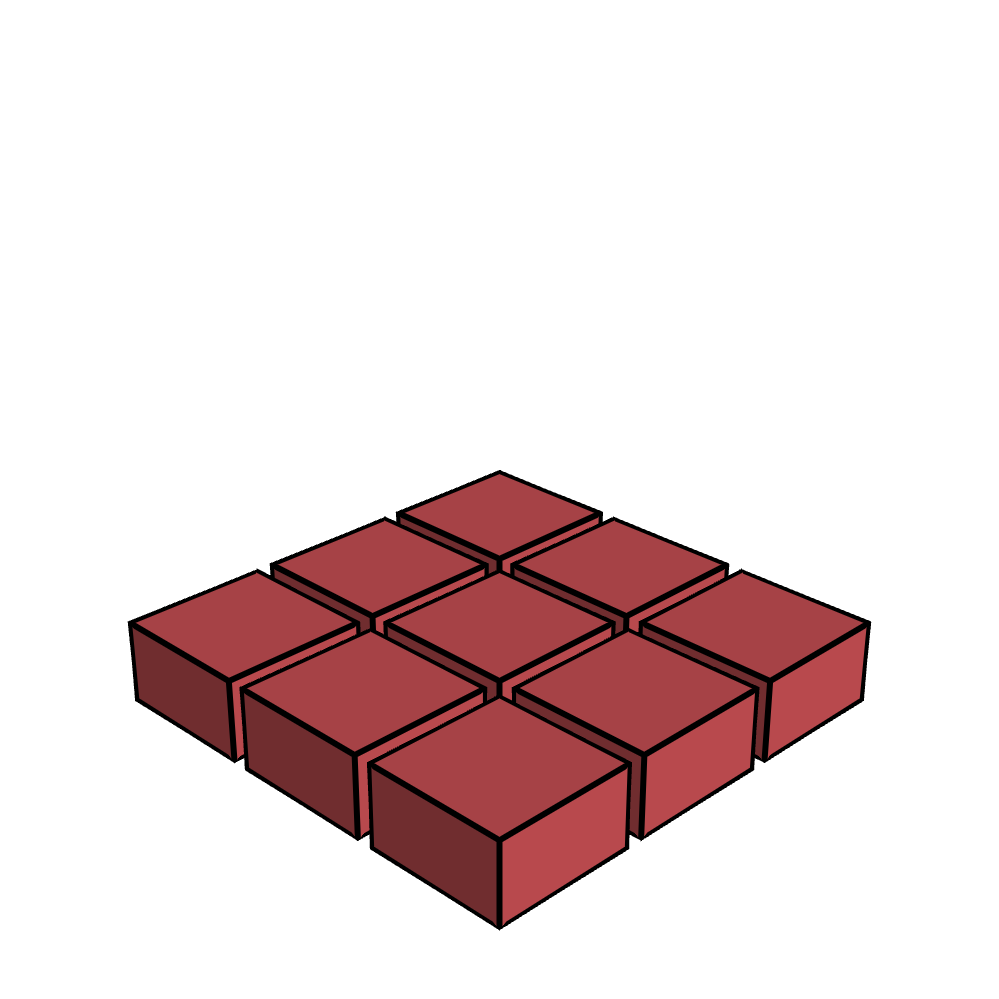
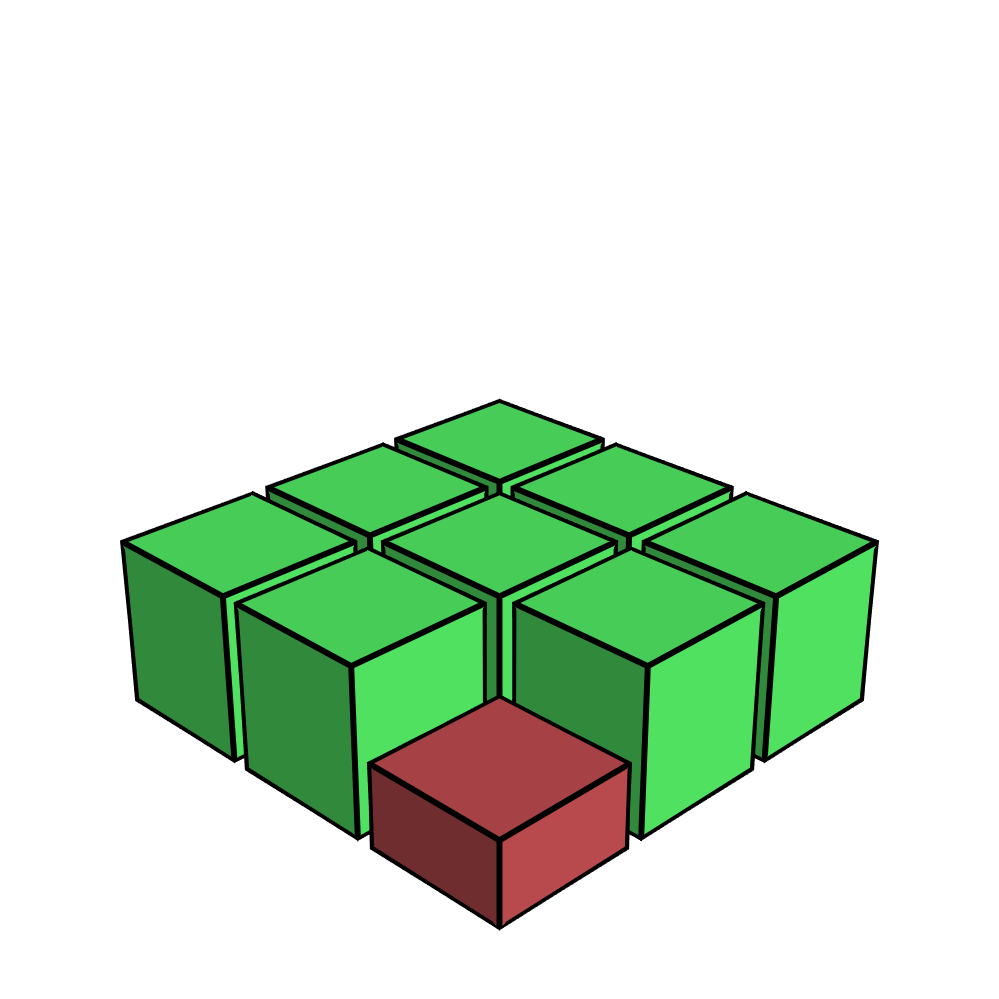
Add additional image to sync images

Changed region(s): [[0.1241, 0.4034, 0.8999, 0.8378]]

diff --git a/plotters/mayavi_off_screen.py b/plotters/mayavi_off_screen.py
@@ -111,14 +111,31 @@ def sync_async_frame_3(name: str):
     )
 
 
-def sync_frame_4():
-    plot_flat_top("sync", 4, 1, red)
-
-
-def async_frame_4():
+def sync_async_frame_4(name: str):
     sync_async_split_colors(
-        name="async", frame=4, distance=0, level=1, red_green_same_level=False
+        name=name, frame=4, distance=0, level=1, red_green_same_level=False
     )
+
+
+def plot_staggered(
+    name: str, frame: int, level: int, color: tuple, size: tuple = image_size
+):
+    fig, filename = start(name, frame)
+
+    x, y, z_bottom, z_top = staggered_height_from_bottom(
+        level=level, squash_factor=squash
+    )
+
+    bar = mlab.barchart(x, y, z_bottom, z_top, color=color, figure=fig)
+    set_line_width(bar)
+
+    set_scene()
+
+    save_clear(filename, size=size)
+
+
+def sync_frame_5():
+    plot_staggered(name="sync", frame=5, level=2, color=red)
 
 
 def async_frame_5():
@@ -155,23 +172,6 @@ def async_frame_10():
     sync_async_split_colors(
         name="async", frame=10, distance=3, level=4, red_green_same_level=False
     )
-
-
-def plot_staggered(
-    name: str, frame: int, level: int, color: tuple, size: tuple = image_size
-):
-    fig, filename = start(name, frame)
-
-    x, y, z_bottom, z_top = staggered_height_from_bottom(
-        level=level, squash_factor=squash
-    )
-
-    bar = mlab.barchart(x, y, z_bottom, z_top, color=color, figure=fig)
-    set_line_width(bar)
-
-    set_scene()
-
-    save_clear(filename, size=size)
 
 
 def async_frame_11():
@@ -332,6 +332,15 @@ def global_state_frame_9():
 # image here instead
 test_off_screen_render()
 
+# Sync
+sync_async_frame_1("sync")
+sync_async_frame_2("sync")
+sync_async_frame_3("sync")
+sync_async_frame_4("sync")
+sync_frame_5()
+
+exit()
+
 # Global state
 global_state_frame_1()
 global_state_frame_2()
@@ -343,13 +352,11 @@ global_state_frame_7()
 global_state_frame_8()
 global_state_frame_9()
 
-exit()
-
 # Async
 sync_async_frame_1("async")
 sync_async_frame_2("async")
 sync_async_frame_3("async")
-async_frame_4()
+sync_async_frame_4("async")
 async_frame_5()
 async_frame_6()
 async_frame_7()
@@ -357,9 +364,3 @@ async_frame_8()
 async_frame_9()
 async_frame_10()
 async_frame_11()
-
-# Sync
-sync_async_frame_1("sync")
-sync_async_frame_2("sync")
-sync_async_frame_3("sync")
-sync_frame_4()

diff --git a/notes.md b/notes.md
@@ -3,7 +3,8 @@
 1. Level 0, all white ![](images/sync_01.png =200x200)
 2. Level 1, all green ![](images/sync_02.png =200x200)
 3. Level 1, element 9 red, rest green ![](images/sync_03.png =200x200)
-4. Level 1, all red ![](images/sync_04.png =200x200)
+4. Element 9 red level 1, rest green level 2 ![](images/sync_04.png =200x200)
+5. Level 2 staggered, all red ![](images/sync_05.png =200x200)
 
 ## Need the following frames for asynchronous stepping:
 
